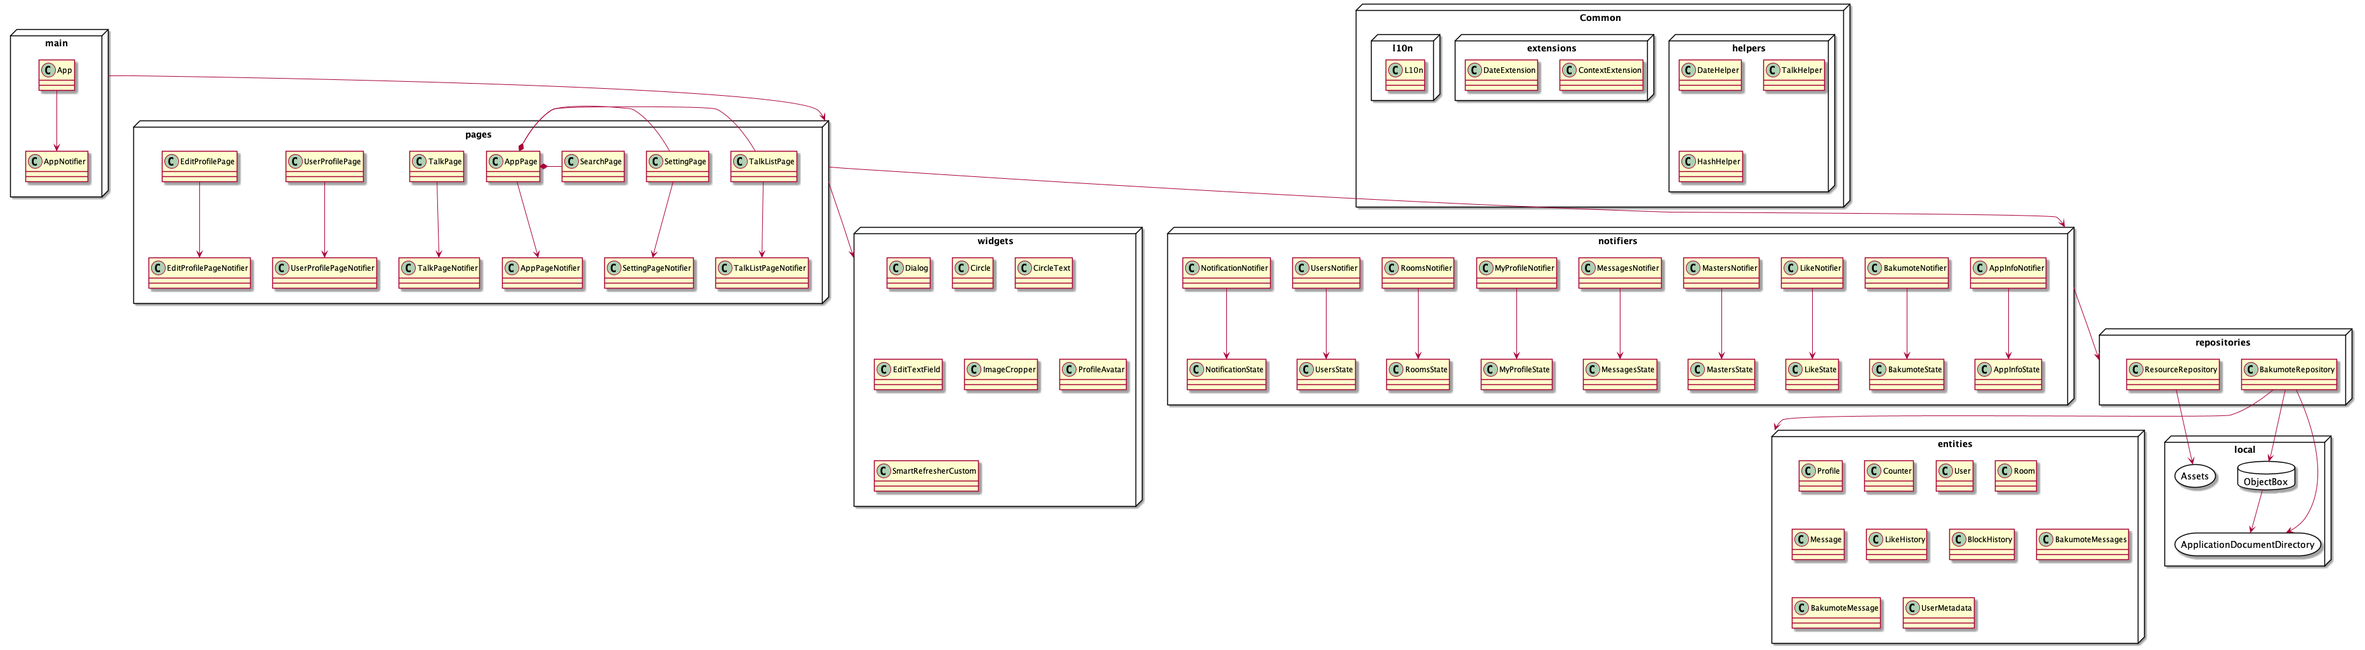
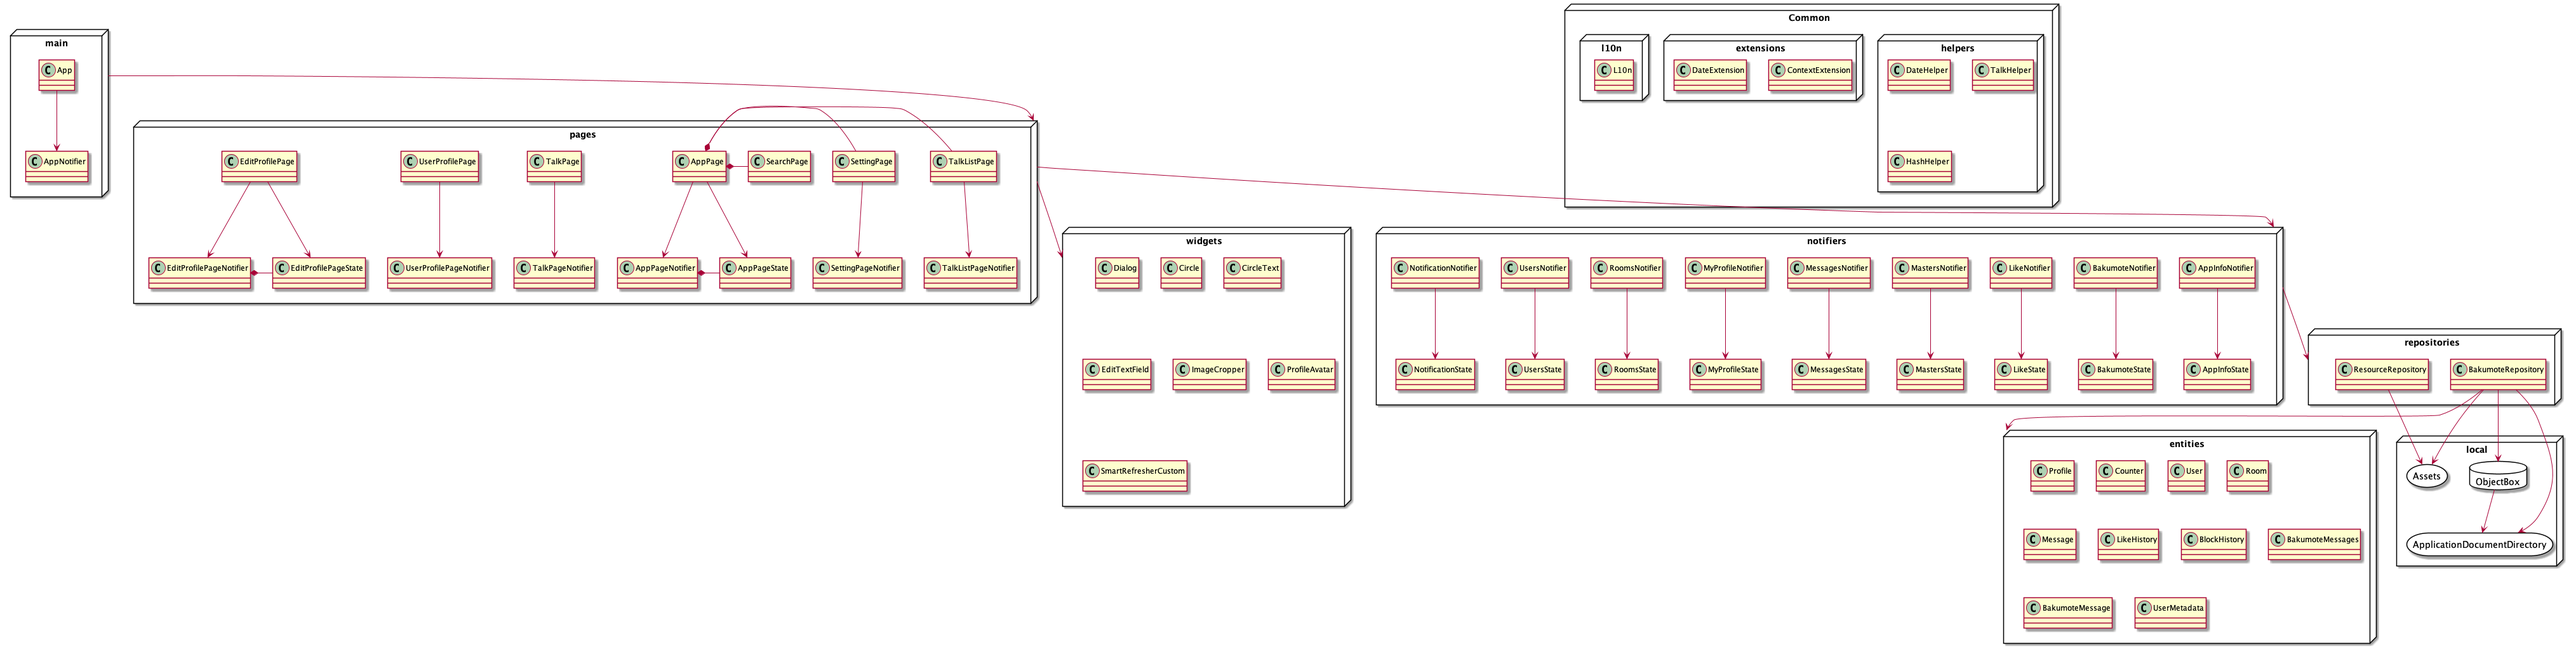
update README.

diff --git a/README.md b/README.md
@@ -1,18 +1,22 @@
 # bakumote
 
-[「出会い系アプリで全然出会えないから爆モテするアプリを作ったww」企画](TODO)
+[「マッチングアプリで出会えないから自分ひいきのアプリを1週間で作ったwww」企画](https://www.youtube.com/watch?v=wkYzBdeIT_E)
 
 
+
+・開発者のチャンネル
 
 [貧乏エンジニア社長もくもくさんチャンネル](https://www.youtube.com/c/mokudev)
 
 チャンネル登録よろしくお願いしますm(__)m
 
-## 設計図
+## 設計
+
+GoogleのクロスプラットフォームフレームワークのFlutterで開発しました。
+
+設計は Riverpod + StateNotifier です。
 
 <img src="./design.png" width="80%">
-
-Riverpod + StateNotifierで実装
 
 ## 使い方
 
@@ -42,14 +46,17 @@ Flutter SDKとそれをビルドできるIDEが必要です。
 # Install plugins.
 $ flutter pub get
 
-# Launching
+# Launching with debug version.
 $ flutter run
 
-# Launching both iOS and Android.
+# Launching with release version.
+$ flutter run --release
+
+# Launching both iOS and Android with debug version.
 $ flutter run -d all
 ```
 
-## その他
+### 実装
 
 freezedとObjectBoxのコード生成コマンドとl10n文言ファイルのコード生成コマンドをshellにまとめている。
 
@@ -60,6 +67,20 @@ freezedとObjectBoxのコード生成コマンドとl10n文言ファイルのコ
 # l10n文言ファイルのコード生成
 ./sh/generate_l10n_message
 ```
+
+## その他
+
+コードはご自由にお使いください。PRも受け付けています笑
+
+## 画像のフリー素材
+
+[O-DAN](https://o-dan.net/ja/)
+
+[Flicker](https://ccphotosearch.com/)
+
+[ぱんたくそ](https://www.pakutaso.com/)
+
+[ICOOON MONO](https://icooon-mono.com/)
 
 ## 参考文献
 

diff --git a/design.md b/design.md
@@ -10,6 +10,7 @@ package main <<Node>> {
 package pages <<Node>> {
   class AppPage {}
   class AppPageNotifier {}
+  class AppPageState {}
   class SearchPage {}
   class TalkListPage {}
   class TalkListPageNotifier {}
@@ -21,6 +22,7 @@ package pages <<Node>> {
   class UserProfilePageNotifier {}
   class EditProfilePage {}
   class EditProfilePageNotifier {}
+  class EditProfilePageState {}
 }
 
 package widgets <<Node>> {
@@ -105,6 +107,8 @@ App --> AppNotifier
 ' 関連
 main --> pages
 AppPage --> AppPageNotifier
+AppPage --> AppPageState
+AppPageNotifier *- AppPageState
 AppPage *- SearchPage
 AppPage *- TalkListPage
 AppPage *- SettingPage
@@ -113,6 +117,8 @@ SettingPage --> SettingPageNotifier
 TalkPage --> TalkPageNotifier
 UserProfilePage --> UserProfilePageNotifier
 EditProfilePage --> EditProfilePageNotifier
+EditProfilePage --> EditProfilePageState
+EditProfilePageNotifier *- EditProfilePageState
 pages --> widgets
 pages --> notifiers
 
@@ -129,10 +135,12 @@ NotificationNotifier --> NotificationState
 notifiers --> repositories
 ResourceRepository --> Assets
 BakumoteRepository --> ObjectBox
+BakumoteRepository --> Assets
 
 BakumoteRepository --> entities
 
 ObjectBox --> ApplicationDocumentDirectory
 BakumoteRepository --> ApplicationDocumentDirectory
+
 @enduml
 ```
